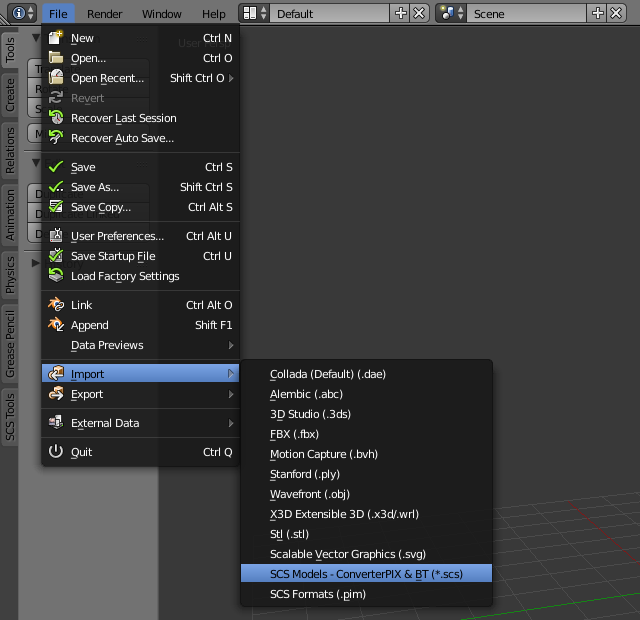
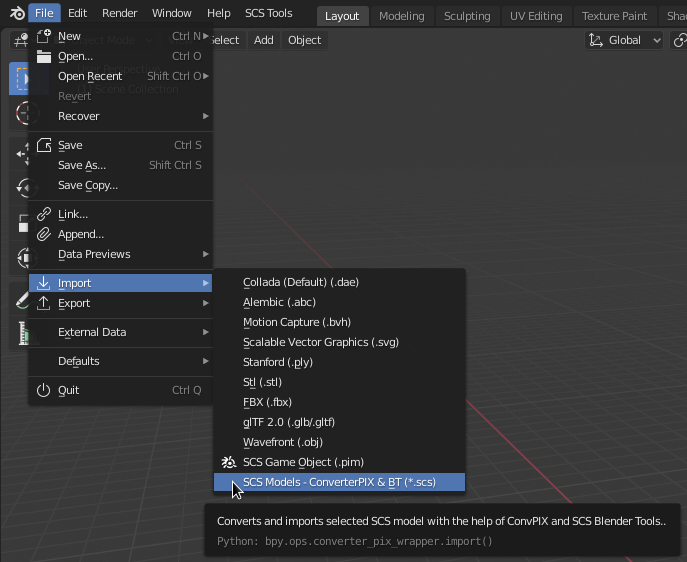
Updated images & readme for usage in Blender 2.81

diff --git a/README.md b/README.md
@@ -40,4 +40,4 @@ Extra archives list additionally enables you to remove or change order of added 
 
 ![Archive List Handling](/readme_images/archive-list-handling.png)
 
-To do that, you have to use selection buttons on side of each entry (green check arrow marks item as selected) and then desired actions can be executed upon them. Moving items will change the order how archives will be passed to ConverterPIX as base. First item in the list is given first, last item is given as last.
+To do that, you have to use selection buttons on side of each entry (check mark arrow marks item as selected) and then desired actions can be executed upon them. Moving items will change the order how archives will be passed to ConverterPIX as base. First item in the list is given first, last item is given as last.
